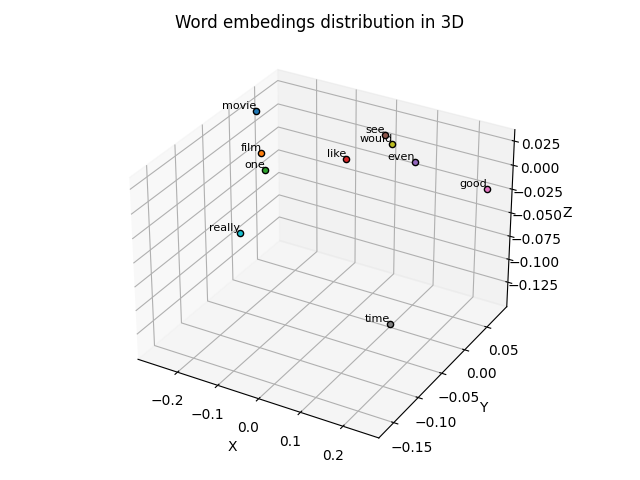
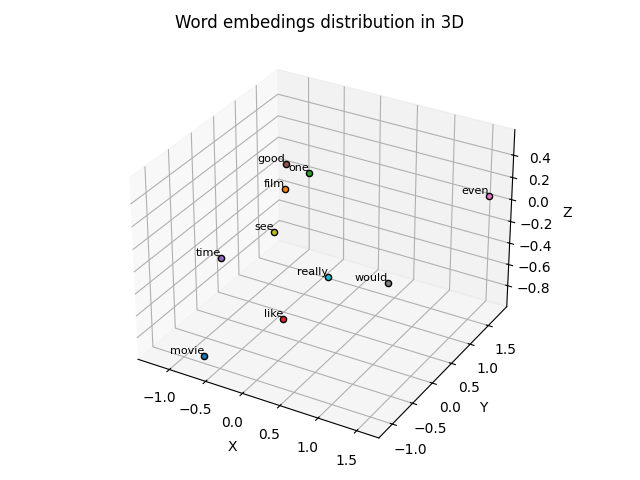
add images for embeding representation

diff --git a/plot_word2vec.py b/plot_word2vec.py
@@ -18,8 +18,8 @@ path = "data/preprocessed_imdb.csv"
 df = pd.read_csv(path)
 
 
-X = np.array(df["lematized_tokens"])[:100]
-y = np.array(df["sentiment"])[:100]
+X = np.array(df["lematized_tokens"])
+y = np.array(df["sentiment"])
 
 
 model = Word2Vec(vector_size=VECTOR_SIZE, min_count=1, workers=CORES-1)
